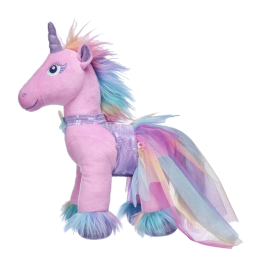
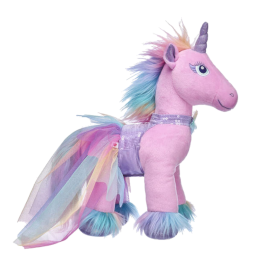
-Add facing left/right concept

diff --git a/engine/animated_sprite.py b/engine/animated_sprite.py
@@ -28,8 +28,7 @@ def load_texture_pair(filename):
     """
     return [
         arcade.load_texture(filename),
-        arcade.load_texture(filename),
-        # TODO(narfman0): flipped_horizontally=True
+        arcade.load_texture(filename, flipped_horizontally=True),
     ]
 
 
@@ -38,8 +37,6 @@ class AnimatedSprite(arcade.Sprite):
         """ sprite_name folder containing sprite, e.g. kingkrool
         animation_name_frames_tuples tuple of animation_name,number of frames, e.g. [("idle", 4)]
         """
-
-        # Set up parent class
         super().__init__()
 
         # Default to face-right
@@ -64,6 +61,7 @@ class AnimatedSprite(arcade.Sprite):
             animation_textures = self.animation_name_texture_pairs[animation_name]
             for i in range(frames):
                 animation_textures.append(load_texture_pair(f"images/npcs/{sprite_name}/{animation_name}{i}.png"))
+        self.texture = self.animation_name_texture_pairs[self.current_animation_name][0][self.character_face_direction]
 
     def update_animation(self, delta_time: float = 1/60):
         # Figure out if we need to flip face left or right
